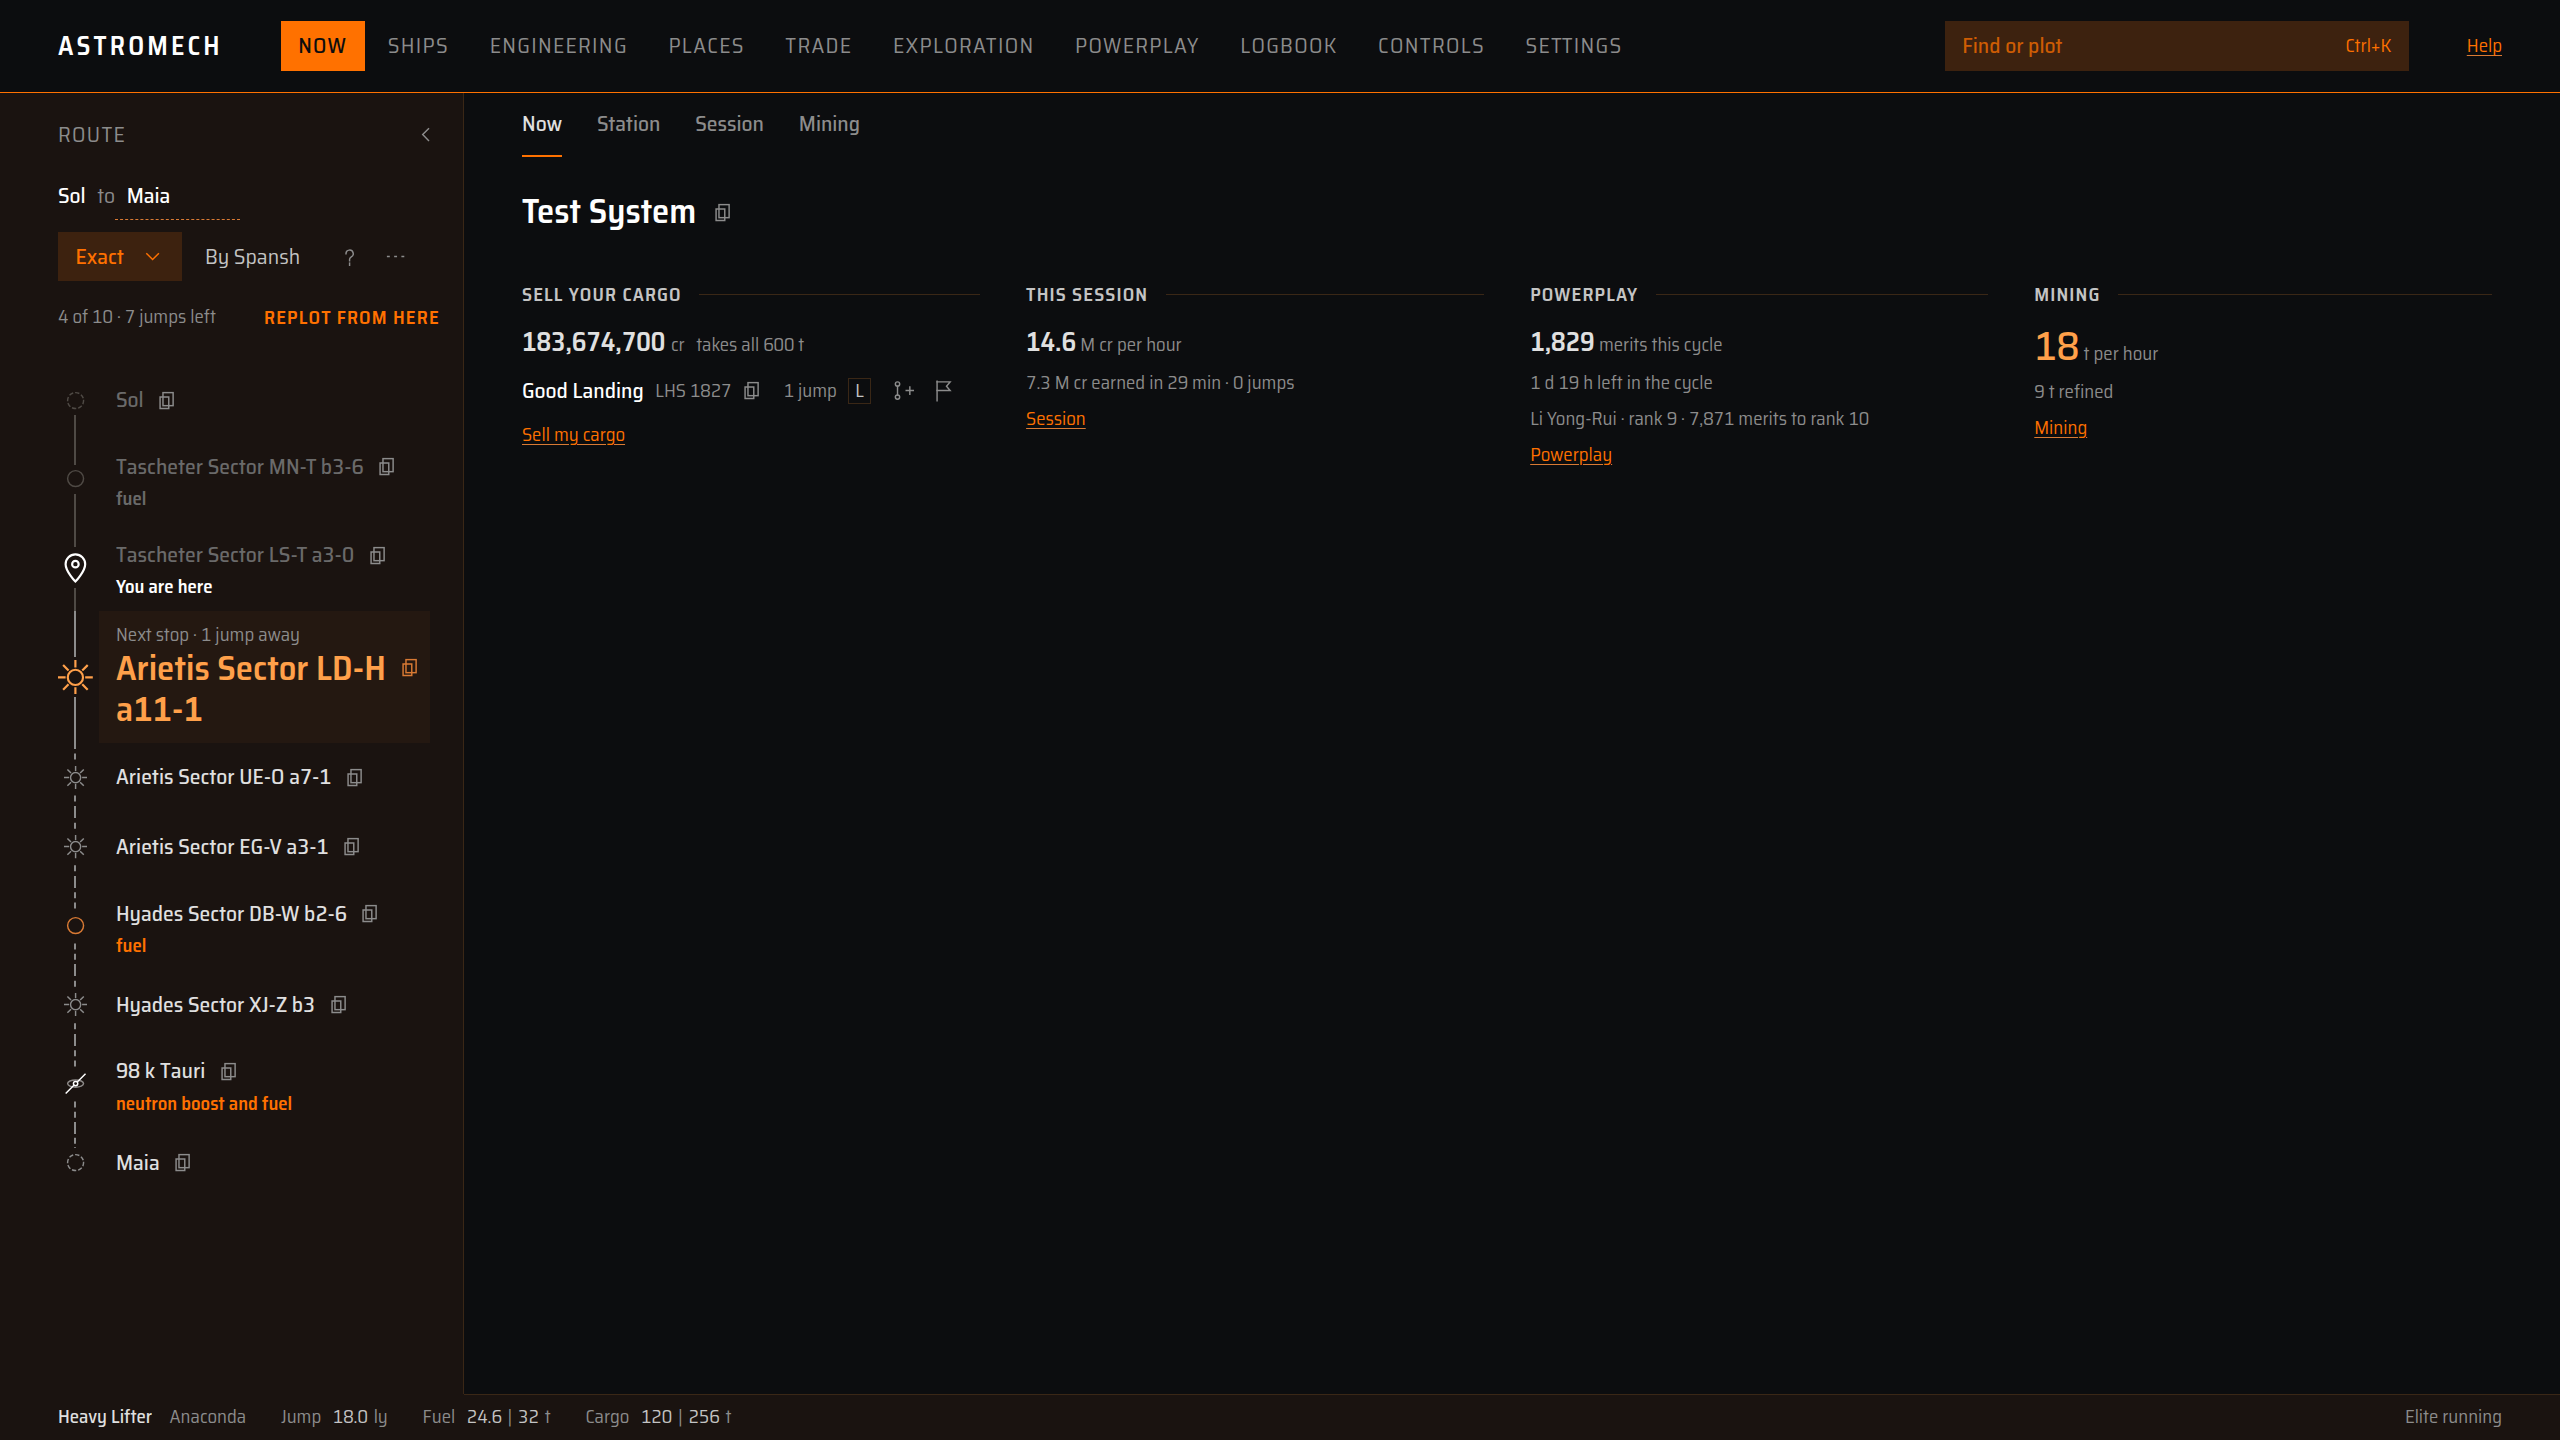
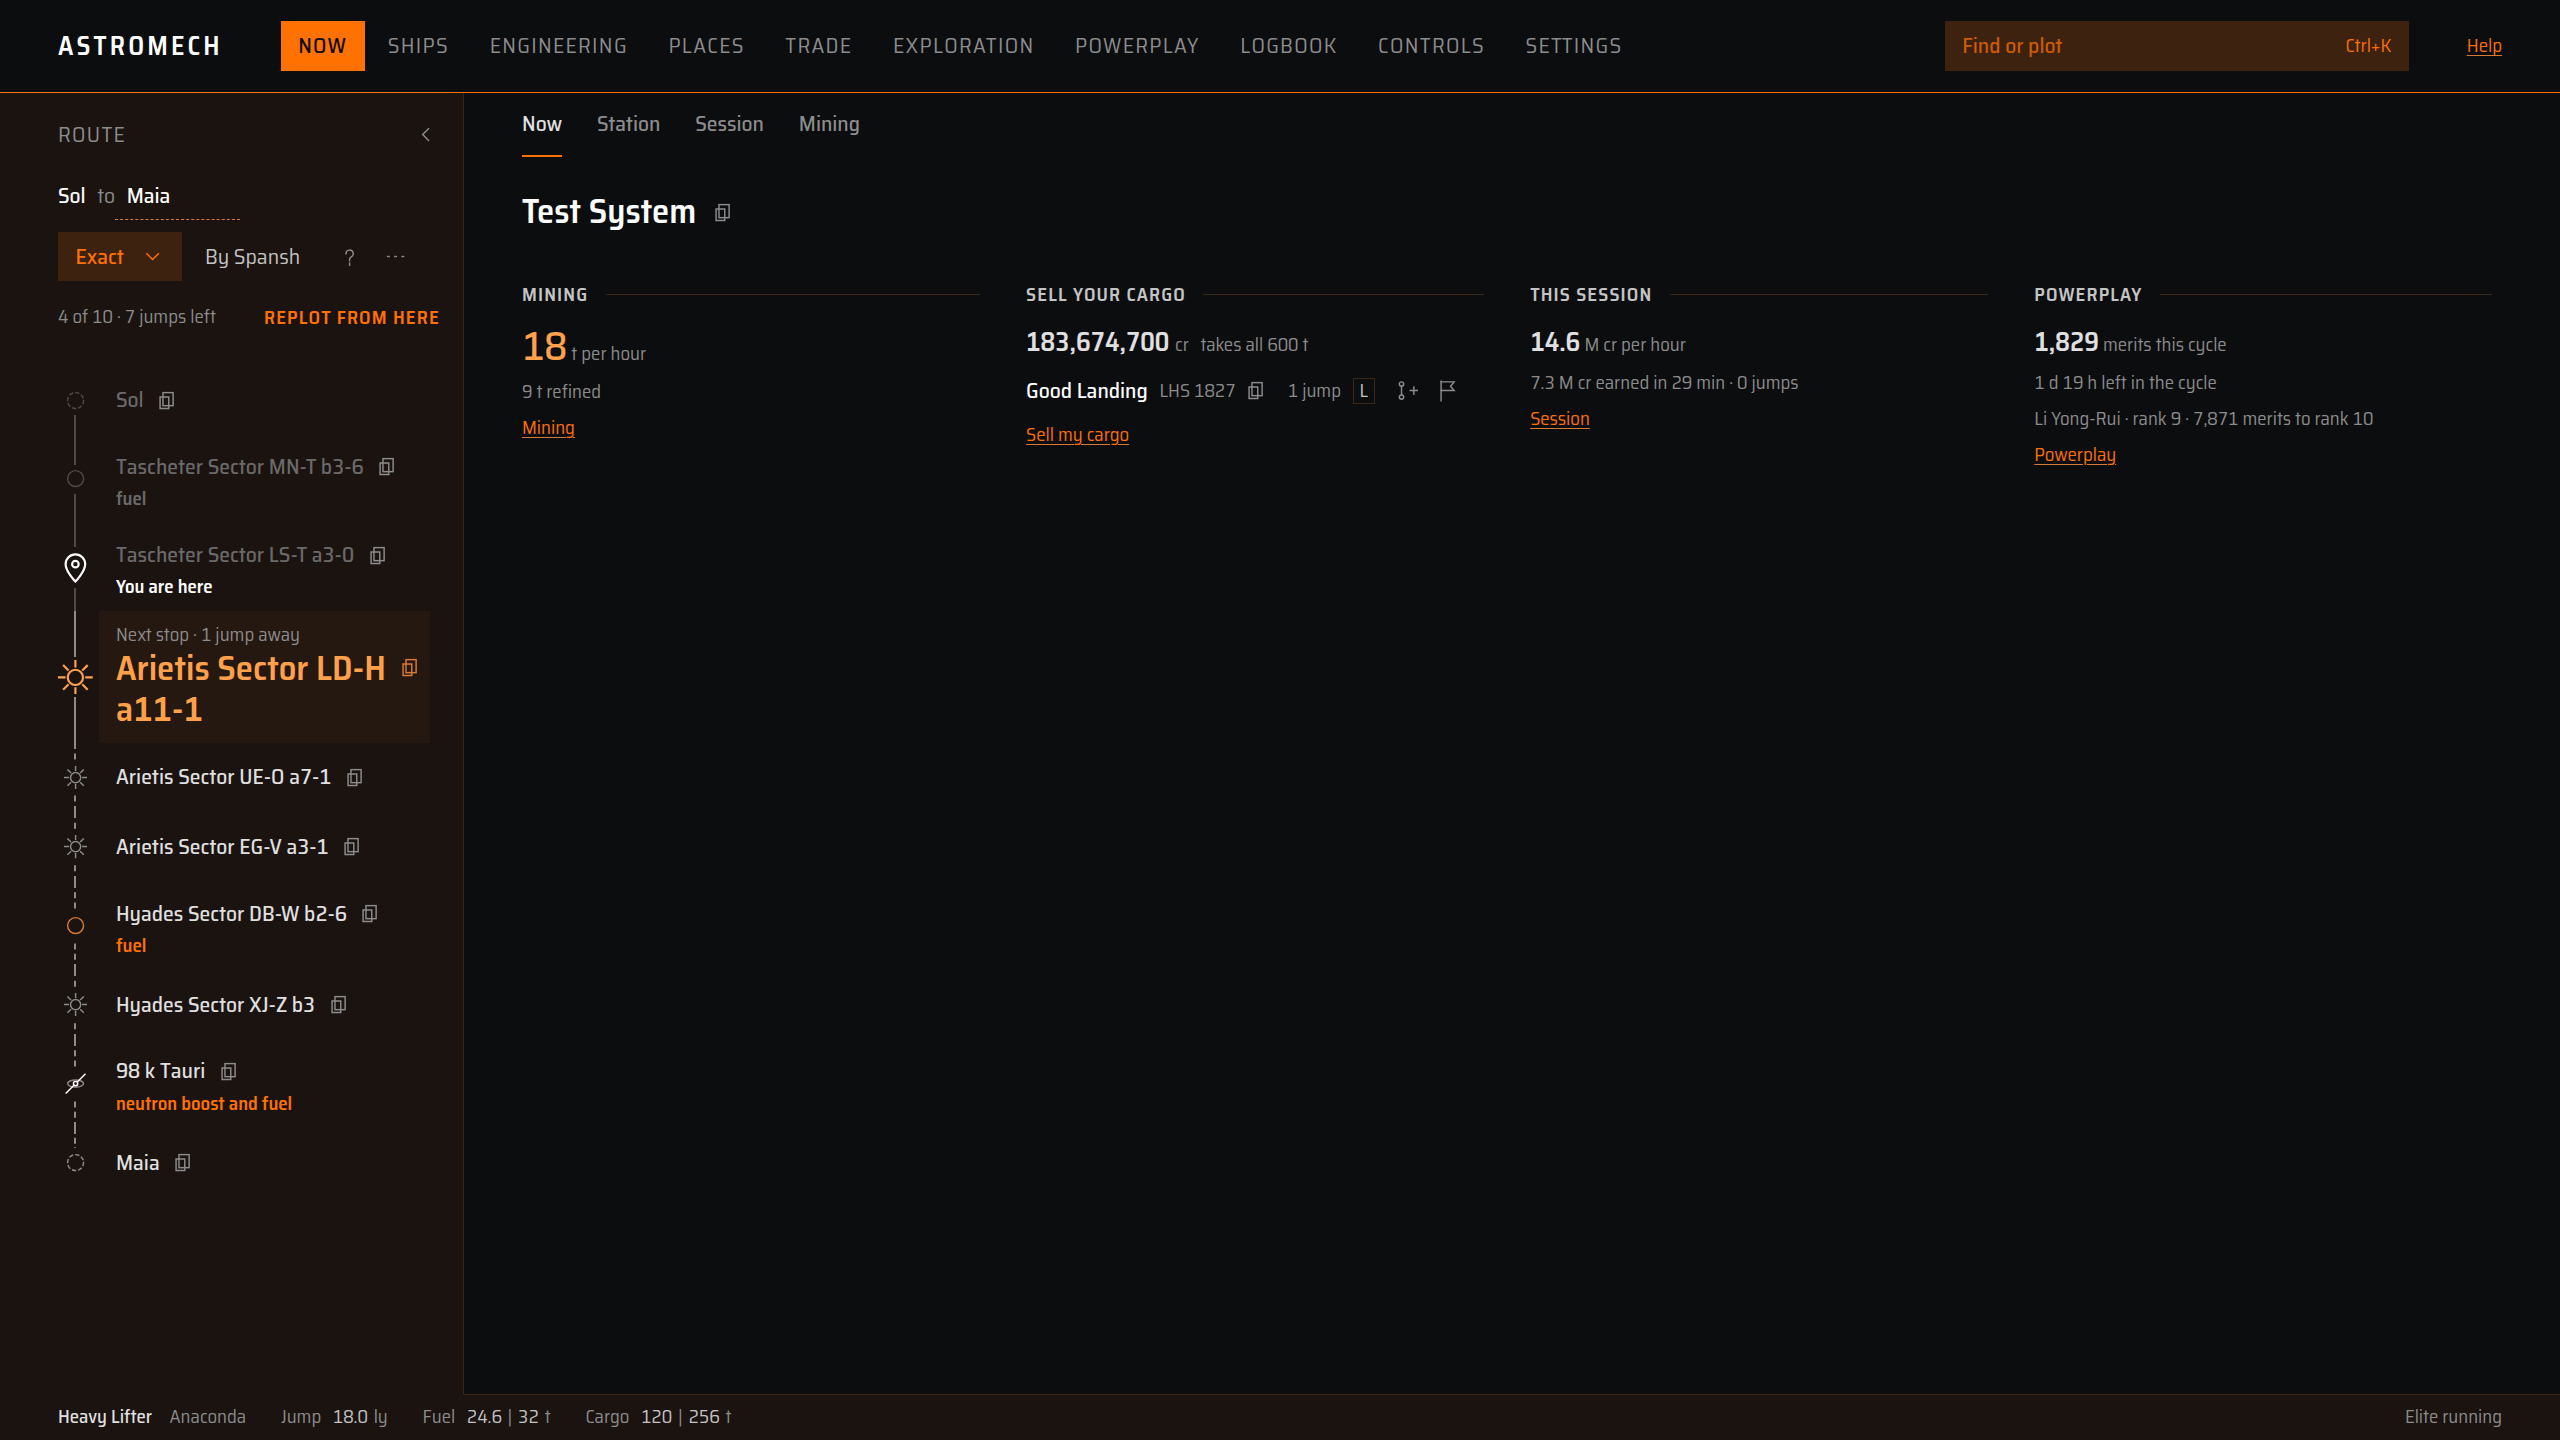
Now: the block that can hold the main value leads the row
With only the size step-down, both glance readers still weighed the first block's
cargo total against the orange mining rate in the fourth column. The blocks now
stand in the order the main value is picked (Mining, Sell your cargo, This session,
Powerplay), and two new readers both name 18 t per hour.

diff --git a/app/src/modules/now/View.svelte b/app/src/modules/now/View.svelte
@@ -9,7 +9,8 @@
   // summarises does. The page's one main value is the first block that shows a figure of: the
   // mining run's tons per hour, the hold's best total, the session's credits per hour. Only that
   // block draws its value in Value XL, Orange Lit; every other block's value steps down to
-  // Value L, Options Grey (DESIGN.md Board), so size and colour agree on which one leads.
+  // Value L, Options Grey (DESIGN.md Board), so size and colour agree on which one leads. The
+  // blocks stand in that same order, so the main value's block comes first in the row.
   import { useFrame } from "../../lib/frame.svelte";
   import { creditParts, loadUnsold, type Unsold } from "../../lib/exploration";
   import { failure } from "../../lib/ui/errors";
@@ -116,6 +117,15 @@
       </div>
 
       <Blocks>
+        <!-- In the order the main value is picked: the block that can hold it leads the row. -->
+        {#if mining && run}
+          <Block title="Mining" href="#/mining" link="Mining" stale={statusReason}>
+            <p class="value">
+              <span class={main === "mining" ? "type-value-xl main" : "type-value-l"}>{run.per_hour == null ? "–" : run.per_hour.toFixed(0)}</span><span class="type-unit">t per hour</span>
+            </p>
+            <p class="type-label">{run.total.toLocaleString("en")} t refined</p>
+          </Block>
+        {/if}
         <!-- Asked once where the commander is is known, so opening the page asks once. -->
         {#if hold && ship && here.loaded}
           <Sale {ship} system={at?.system ?? null} main={main === "sale"} stale={shipReason} onfigure={(f) => (saleFigure = f)} />
@@ -163,14 +173,6 @@
                 {st.power}{#if st.rank != null}{` · rank ${st.rank}`}{/if}{#if st.next}{` · ${num(st.next.to_go)} merits to rank ${st.next.rank}`}{/if}
               </p>
             {/if}
-          </Block>
-        {/if}
-        {#if mining && run}
-          <Block title="Mining" href="#/mining" link="Mining" stale={statusReason}>
-            <p class="value">
-              <span class={main === "mining" ? "type-value-xl main" : "type-value-l"}>{run.per_hour == null ? "–" : run.per_hour.toFixed(0)}</span><span class="type-unit">t per hour</span>
-            </p>
-            <p class="type-label">{run.total.toLocaleString("en")} t refined</p>
           </Block>
         {/if}
       </Blocks>

diff --git a/DESIGN.md b/DESIGN.md
@@ -845,7 +845,7 @@ places content, it never adds any: a sparse page stays sparse.
 
 | Layout | What it holds | Use it when | For example |
 |---|---|---|---|
-| Board | blocks or tiles laid out across the width, each with its own main value; a Board with one page-level main value (Now) draws only that block's value in Value XL, Orange Lit, and steps every other block's value down to Value L, Options Grey, so size and colour agree on which one leads; where a tile can be selected, the 320 px side panel after a 1 px Seam rule describes it | the page is answers or tiles read at a glance, laid out by their own shape (a grid of categories and grades, a row of answers) | Now, Powerplay, Places home; Materials, with its side panel |
+| Board | blocks or tiles laid out across the width, each with its own main value; a Board with one page-level main value (Now) draws only that block's value in Value XL, Orange Lit, and steps every other block's value down to Value L, Options Grey, so size and colour agree on which one leads, and sets its blocks in the order the main value is picked, so the block that holds it comes first; where a tile can be selected, the 320 px side panel after a 1 px Seam rule describes it | the page is answers or tiles read at a glance, laid out by their own shape (a grid of categories and grades, a row of answers) | Now, Powerplay, Places home; Materials, with its side panel |
 | List with detail | a list (rows or a tree) and the 320 px side panel after a 1 px Seam rule, which describes the selected item | the commander picks one item from many and then wants its details | Places finders, System, Ships, Engineers |
 | Workbench | the inputs on the left, the result on the right | the commander sets up a question and reads one answer that changes as the inputs do | Trade > Commodities |
 | Form | Settings rows in one column: a 200 px label and a cell up to 700 px, 900 px in all | the page is values to set | Settings |

diff --git a/docs/design/glance-8jqg/README.md b/docs/design/glance-8jqg/README.md
@@ -23,3 +23,17 @@ without the route panel question. Row 2 expects "the mining rate, 18 t per hour"
 | B | No single value stands out. The orange "18 t per hour" under MINING draws the eye first, but the page seems to be about "183,674,700 cr" under SELL YOUR CARGO, since it is first and leads the row. | fail |
 
 Both put the cargo total, the first block in the row, against the orange rate in the fourth.
+
+### With the blocks reordered: Mining, Sell your cargo, This session, Powerplay
+
+The blocks now stand in the order the main value is picked, so the block that holds it leads
+the row. Two new readers, the same prompt, the new capture:
+
+| Reader | Answer, verbatim (main value \| can change \| needs you) | Main value mark |
+|---|---|---|
+| C | 18 t per hour (the orange Mining figure) \| none: Mining, Sell my cargo, Session and Powerplay are only links, and the icons next to "Test System" and "LHS 1827" look like copy buttons \| none | pass |
+| D | 18 t per hour (the orange mining rate under MINING; other figures compete with it: 183,674,700 cr, 14.6 M cr per hour, 1,829 merits) \| the two icon buttons after "Good Landing · LHS 1827 · 1 jump" (add as a waypoint, set as destination) and the copy icons beside "Test System" and "LHS 1827" \| none | pass |
+
+Reader C's can change answer, "none", misses the Add stop and Set destination icons beside Good
+Landing, which row 2 expects. Those icons are unchanged by this item, and that question passed
+in both of astromech-crxa's rounds.
